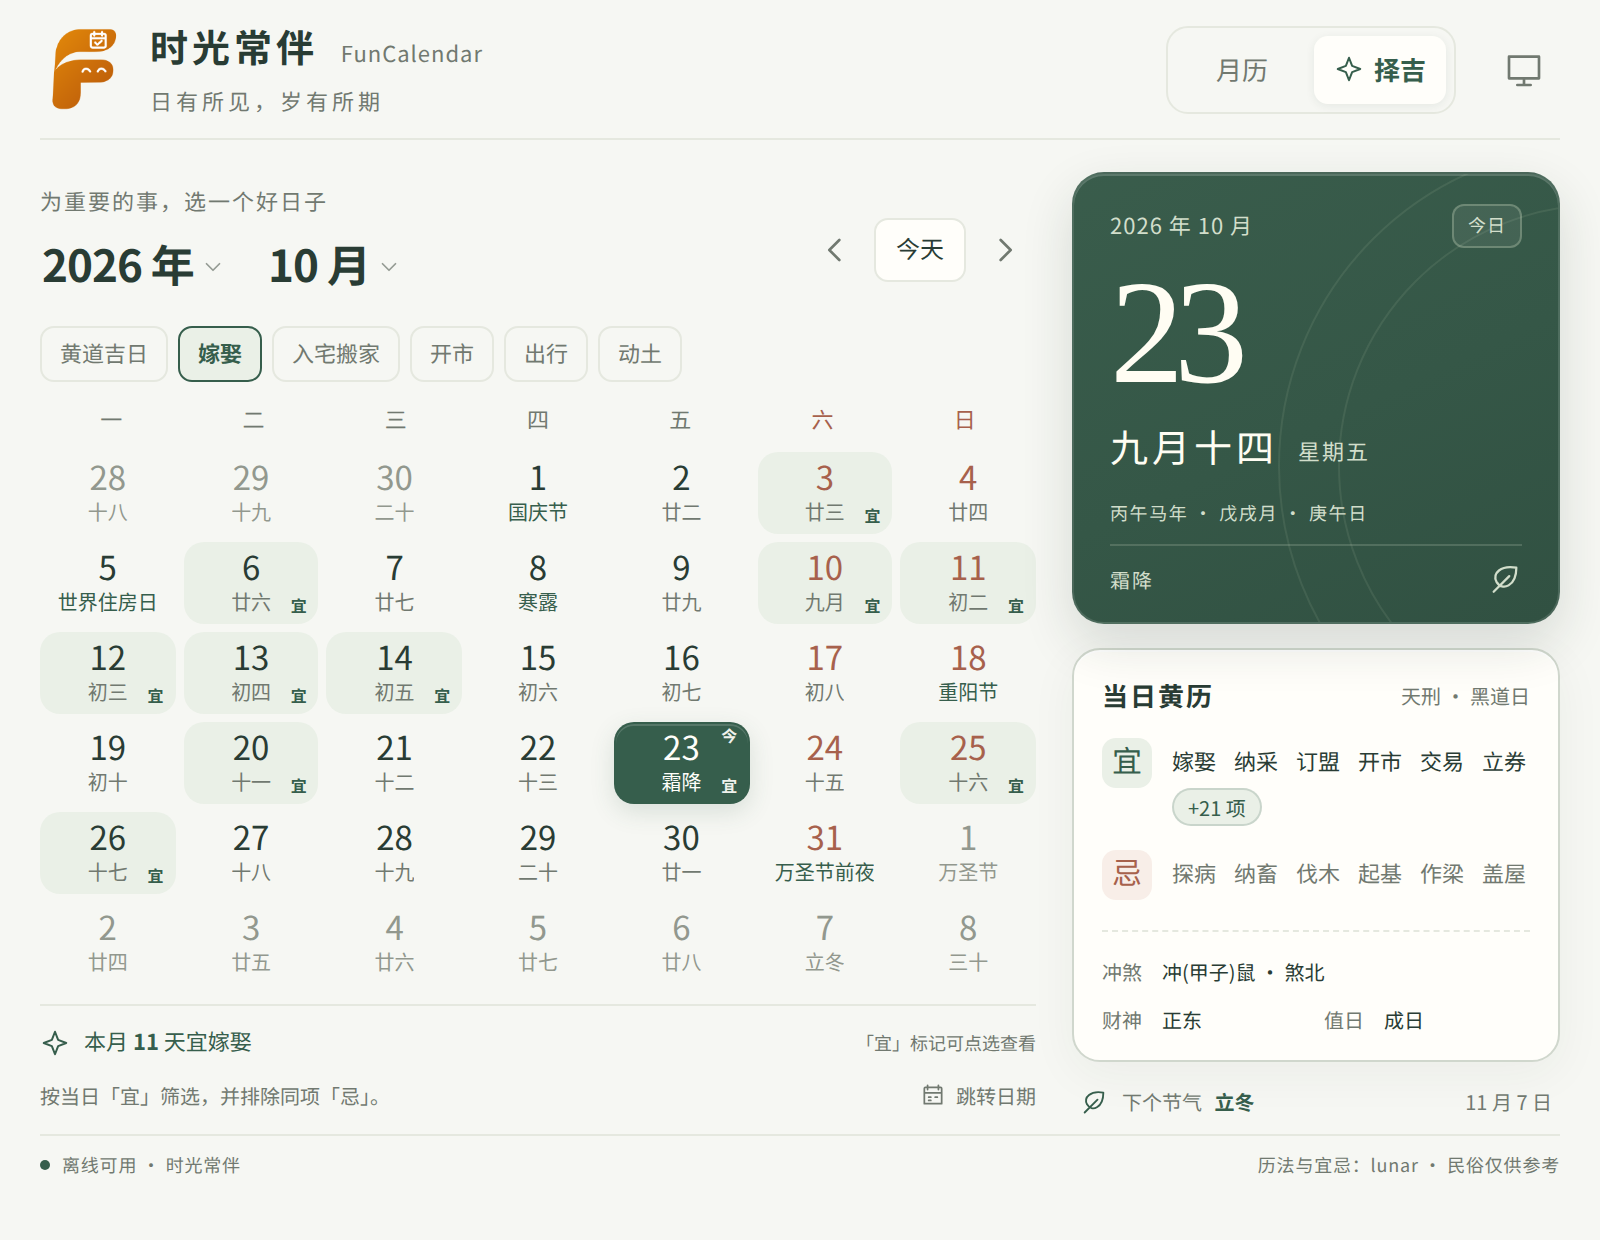
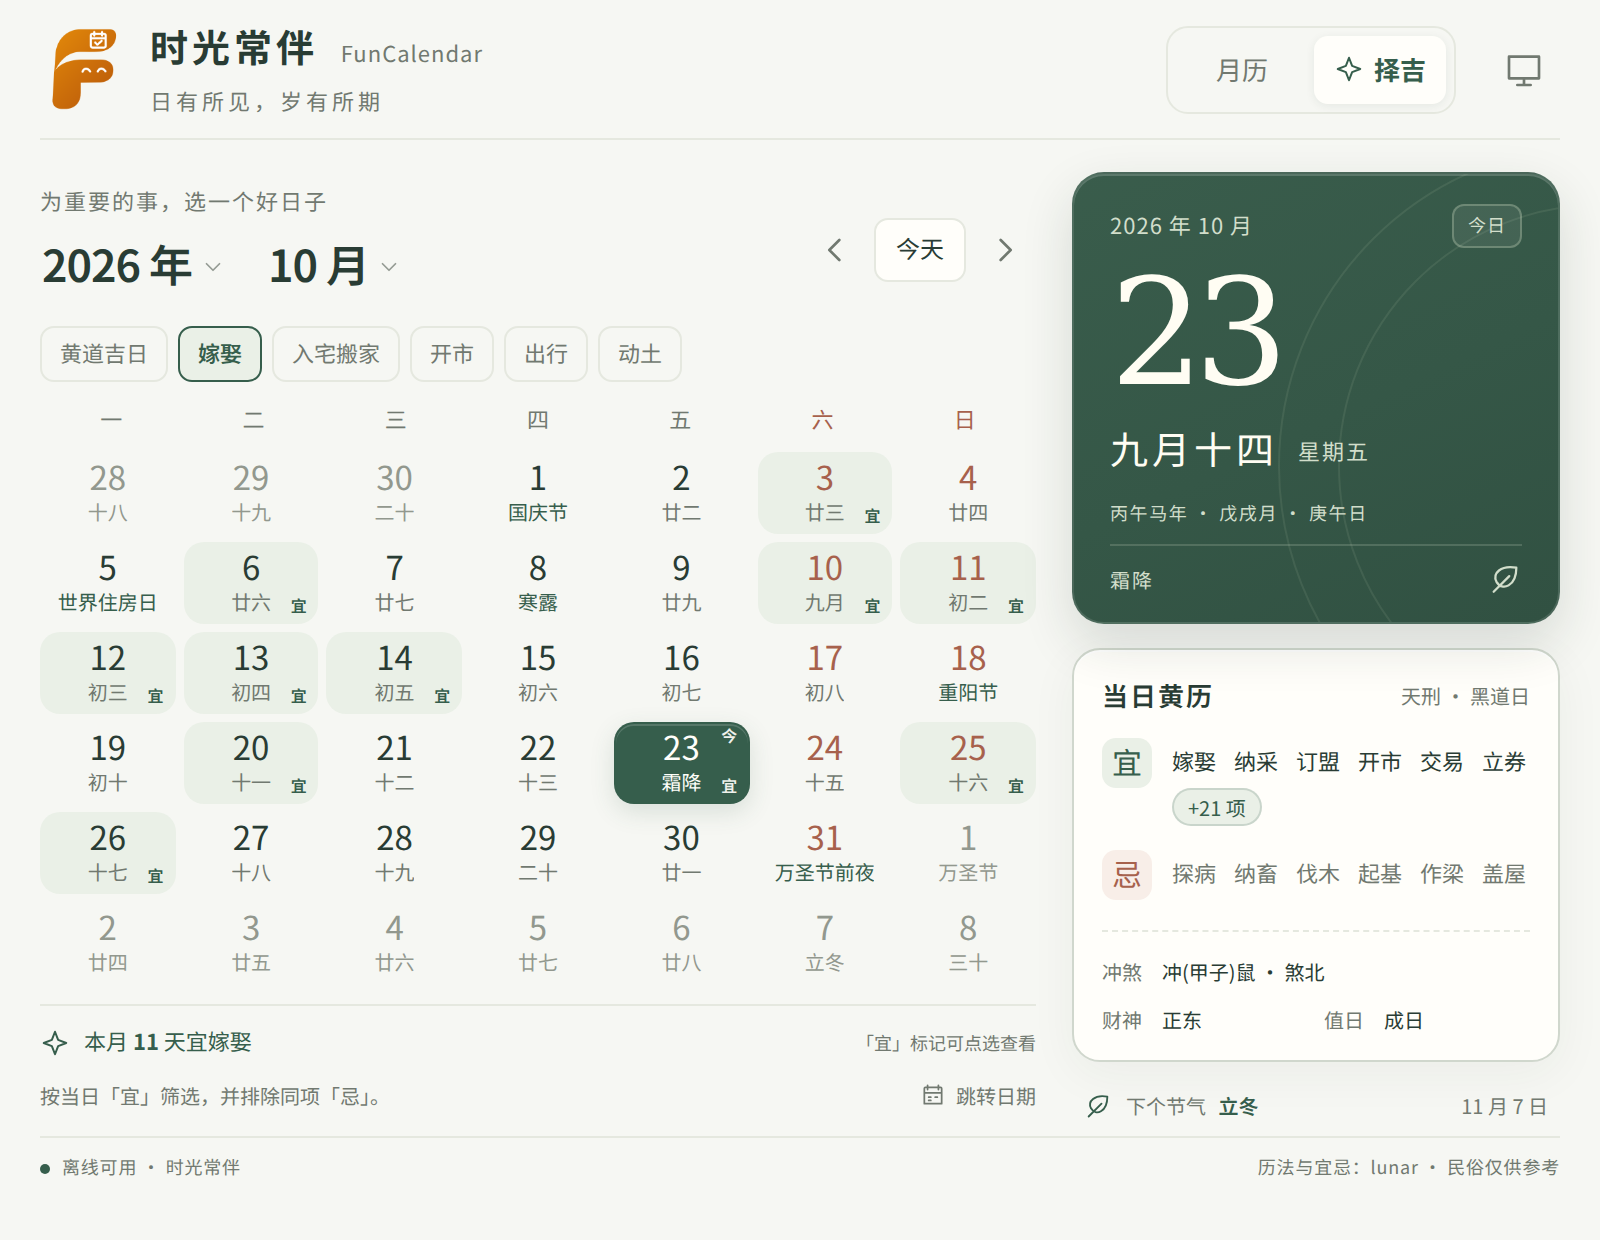
refactor: support Chinese/8-digit date parsing, keyboard shortcuts, and festival badge layout

diff --git a/src/App.vue b/src/App.vue
@@ -33,6 +33,21 @@ const dayCells = computed(() => {
 const matching = computed(() => dayCells.value.filter(cell => cell.isMatch))
 const monthTerms = computed(() => inMonth.value.filter(day => day.term))
 const nextTerm = computed(() => lunar.value.getNextJieQi(true))
+const nextTermInfo = computed(() => {
+  const term = nextTerm.value
+  const solar = term.getSolar()
+  const year = solar.getYear()
+  const month = solar.getMonth()
+  const day = solar.getDay()
+  const available = year >= MIN_YEAR && year <= MAX_YEAR
+  const crossYear = year !== selected.value.getFullYear()
+  return {
+    name: term.getName(),
+    date: localDate(year, month, day),
+    available,
+    label: crossYear ? `${year} 年 ${month} 月 ${day} 日` : `${month} 月 ${day} 日`,
+  }
+})
 const weekday = computed(() => `星期${WEEKDAYS[(selected.value.getDay() + 6) % 7]}`)
 const minMonth = computed(() => selected.value.getFullYear() === MIN_YEAR && selected.value.getMonth() === 0)
 const maxMonth = computed(() => selected.value.getFullYear() === MAX_YEAR && selected.value.getMonth() === 11)
@@ -85,6 +100,14 @@ function changeMonth(event: Event, part: 'year' | 'month') {
   select(localDate(year, month, Math.min(selected.value.getDate(), localDate(year, month + 1, 0).getDate())))
 }
 async function onGridKey(event: KeyboardEvent) {
+  if (event.altKey || event.ctrlKey || event.metaKey) return
+  if (event.key === 't' || event.key === 'T') {
+    event.preventDefault()
+    goToday()
+    await nextTick()
+    grid.value?.querySelector<HTMLButtonElement>('[aria-pressed="true"]')?.focus()
+    return
+  }
   const offsets: Record<string, number> = { ArrowLeft: -1, ArrowRight: 1, ArrowUp: -7, ArrowDown: 7 }
   const offset = offsets[event.key]
   if (offset === undefined && !['Home', 'End', 'PageUp', 'PageDown'].includes(event.key)) return
@@ -93,7 +116,10 @@ async function onGridKey(event: KeyboardEvent) {
   if (offset !== undefined) date = localDate(date.getFullYear(), date.getMonth() + 1, date.getDate() + offset)
   else if (event.key === 'Home') date = localDate(date.getFullYear(), date.getMonth() + 1, 1)
   else if (event.key === 'End') date = localDate(date.getFullYear(), date.getMonth() + 2, 0)
-  else date = moveMonth(date, event.key === 'PageUp' ? -1 : 1)
+  else {
+    const step = (event.shiftKey ? 12 : 1) * (event.key === 'PageUp' ? -1 : 1)
+    date = moveMonth(date, step)
+  }
   select(date)
   await nextTick()
   grid.value?.querySelector<HTMLButtonElement>('[aria-pressed="true"]')?.focus()
@@ -164,7 +190,7 @@ onUnmounted(() => {
             </div>
             <div class="month-actions">
               <button class="icon-button" aria-label="上个月" :disabled="minMonth" @click="select(moveMonth(selected, -1))"><AppIcon name="chevron-left" /></button>
-              <button class="today-button" @click="goToday">今天</button>
+              <button class="today-button" title="回到今天 (T)" @click="goToday">今天</button>
               <button class="icon-button" aria-label="下个月" :disabled="maxMonth" @click="select(moveMonth(selected, 1))"><AppIcon name="chevron-right" /></button>
             </div>
           </div>
@@ -200,7 +226,7 @@ onUnmounted(() => {
             <span class="calendar-caption">阳历 · 农历 · 节气</span>
           </div>
           <div v-else class="matching-summary" aria-live="polite">
-            <AppIcon name="sparkle" /><span>本月 <strong>{{ matching.length }}</strong> 天{{ activity ? '宜' + activity : '为黄道吉日' }}</span><span>「宜」标记可点选查看</span>
+            <AppIcon name="sparkle" /><span>本月 <strong>{{ matching.length }}</strong> 天{{ activity ? '宜' + activity : '为黄道吉日' }}</span><span>{{ matching.length ? '「宜」标记可点选查看' : '可切换上下月查看' }}</span>
           </div>
 
           <div class="calendar-note">
@@ -225,7 +251,7 @@ onUnmounted(() => {
             <button v-if="showAll" class="collapse-fortune" @click="showAll = false">收起宜忌</button>
             <dl class="almanac-facts"><div><dt>冲煞</dt><dd>冲{{ lunar.getChongDesc() }} · 煞{{ lunar.getSha() }}</dd></div><div><dt>财神</dt><dd>{{ lunar.getDayPositionCaiDesc() }}</dd></div><div><dt>值日</dt><dd>{{ lunar.getZhiXing() }}日</dd></div></dl>
           </section>
-          <div class="next-term"><AppIcon name="leaf" /><span>下个节气 <strong>{{ nextTerm.getName() }}</strong></span><span>{{ nextTerm.getSolar().getMonth() }} 月 {{ nextTerm.getSolar().getDay() }} 日</span></div>
+          <button type="button" class="next-term" :disabled="!nextTermInfo.available" :title="nextTermInfo.available ? `跳转到${nextTermInfo.name}` : undefined" @click="select(nextTermInfo.date)"><AppIcon name="leaf" /><span>下个节气 <strong>{{ nextTermInfo.name }}</strong></span><span>{{ nextTermInfo.label }}</span></button>
         </aside>
       </div>
     </main>

diff --git a/src/style.css b/src/style.css
@@ -135,7 +135,8 @@ main { padding-top: 24px; }
 .solar-terms span { color: var(--muted); font-size: 10px; }
 .calendar-caption { color: var(--muted); font-size: 10px; white-space: nowrap; }
 .calendar-note { display: flex; align-items: center; justify-content: space-between; gap: 10px; margin-top: 14px; color: var(--muted); font-size: 10px; }
-.date-jump { display: flex; align-items: center; gap: 5px; position: relative; height: 26px; cursor: pointer; flex-shrink: 0; }
+.date-jump { display: flex; align-items: center; gap: 5px; position: relative; height: 26px; padding: 0 6px; margin-right: -6px; border-radius: 6px; cursor: pointer; flex-shrink: 0; transition: background .15s ease, color .15s ease; }
+.date-jump:hover { background: var(--green-soft); color: var(--green); }
 .date-jump svg { width: 13px; height: 13px; }
 .date-jump input { opacity: 0; position: absolute; inset: 0; width: 100%; cursor: pointer; }
 .date-jump input::-webkit-calendar-picker-indicator { position: absolute; inset: 0; width: 100%; height: 100%; margin: 0; padding: 0; cursor: pointer; }
@@ -220,7 +221,8 @@ main { padding-top: 24px; }
 .almanac-facts div:first-child { grid-column: 1 / -1; }
 .almanac-facts dt { color: var(--muted); }
 .almanac-facts dd { margin: 0; }
-.next-term { display: flex; gap: 7px; align-items: center; padding: 0 4px; font-size: 10px; color: var(--muted); }
+.next-term { width: 100%; display: flex; gap: 7px; align-items: center; padding: 2px 6px; border-radius: 7px; font-size: 10px; color: var(--muted); text-align: left; transition: background .15s ease, color .15s ease; }
+.next-term:hover:not(:disabled) { background: var(--green-soft); color: var(--green); }
 .next-term svg { width: 14px; height: 14px; color: var(--green); }
 .next-term strong { margin-left: 4px; color: var(--green); font-weight: 550; }
 .next-term > span:last-child { margin-left: auto; }
@@ -233,6 +235,7 @@ main { padding-top: 24px; }
 .activity-picker button.active { color: var(--green); border-color: var(--green); background: var(--green-soft); font-weight: 550; }
 .picking-days .day-cell { height: 52px; }
 .day-cell.suitable:not(.selected) { background: var(--green-soft); }
+.day-cell.suitable .lunar-label { padding-inline: 11px; }
 .good-mark { position: absolute; bottom: 4px; right: 5px; font-size: 8.5px; line-height: 1; font-weight: 600; color: var(--green); }
 .selected .good-mark { color: var(--surface); opacity: .92; }
 .matching-summary { display: flex; align-items: center; gap: 7px; padding: 12px 0 0; margin-top: 14px; border-top: 1px solid var(--border); font-size: 11px; color: var(--green); }

diff --git a/tests/App.test.ts b/tests/App.test.ts
@@ -153,5 +153,23 @@ describe('日历交互', () => {
     expect(wrapper.get('.hero-date').text()).toBe('30')
     await grid().trigger('keydown', { key: 'PageDown' })
     expect(wrapper.get('[aria-label="月份"]').element).toHaveProperty('value', '10')
+    await grid().trigger('keydown', { key: 'PageUp', shiftKey: true })
+    expect(wrapper.get('[aria-label="年份"]').element).toHaveProperty('value', '2025')
+    await grid().trigger('keydown', { key: 'ArrowLeft', ctrlKey: true })
+    expect(wrapper.get('[aria-label="年份"]').element).toHaveProperty('value', '2025')
+    await grid().trigger('keydown', { key: 't' })
+    expect(wrapper.get('[aria-label="年份"]').element).toHaveProperty('value', '2026')
+    expect(wrapper.get('.day-cell.selected').attributes('aria-current')).toBe('date')
+  })
+  it('点击下个节气可直接跳转，跨年与 2100 年末边界显示正确', async () => {
+    await wrapper.get('.next-term').trigger('click')
+    expect(wrapper.get('[aria-label="月份"]').element).toHaveProperty('value', '11')
+    expect(wrapper.get('.date-card-bottom').text()).toContain('立冬')
+
+    await wrapper.get('[aria-label="跳转日期"]').setValue('2026-12-25')
+    expect(wrapper.get('.next-term').text()).toContain('2027 年')
+
+    await wrapper.get('[aria-label="跳转日期"]').setValue('2100-12-31')
+    expect(wrapper.get('.next-term').attributes('disabled')).toBeDefined()
   })
 })

diff --git a/tests/calendar.test.ts b/tests/calendar.test.ts
@@ -3,10 +3,10 @@ import { auspiciousDays, calendarDayInfo, dateKey, getDay, localDate, matchesAct
 
 describe('日期与月视图', () => {
   it('接受本地日期，拒绝溢出日期与范围外的输入', () => {
-    for (const text of ['2024-02-29', ' 2024/2/29 ', '2024.2.29']) {
+    for (const text of ['2024-02-29', ' 2024/2/29 ', '2024.2.29', '2024年2月29日', '2024年02月29', '20240229']) {
       expect(dateKey(parseDate(text)!)).toBe('2024-02-29')
     }
-    for (const text of ['2026-02-29', '2024-13-01', '2024-00-01', '2024-04-31', '1900-12-31', '2101-01-01', '2024-01-00', 'bad']) {
+    for (const text of ['2026-02-29', '20260229', '2026年2月29日', '2024-13-01', '2024-00-01', '2024-04-31', '1900-12-31', '2101-01-01', '2024-01-00', 'bad']) {
       expect(parseDate(text)).toBeNull()
     }
   })

diff --git a/src/lib/calendar.ts b/src/lib/calendar.ts
@@ -22,7 +22,10 @@ export function dateKey(date: Date): string {
 }
 
 export function parseDate(text: string): Date | null {
-  const match = /^(\d{4})[-/.](\d{1,2})[-/.](\d{1,2})$/.exec(text.trim())
+  const trimmed = text.trim()
+  const match = /^(\d{4})[-/.](\d{1,2})[-/.](\d{1,2})$/.exec(trimmed)
+    || /^(\d{4})年\s*(\d{1,2})月\s*(\d{1,2})日?$/.exec(trimmed)
+    || /^(\d{4})(\d{2})(\d{2})$/.exec(trimmed)
   if (!match) return null
   const [, y, m, d] = match
   const year = Number(y), month = Number(m), day = Number(d)
